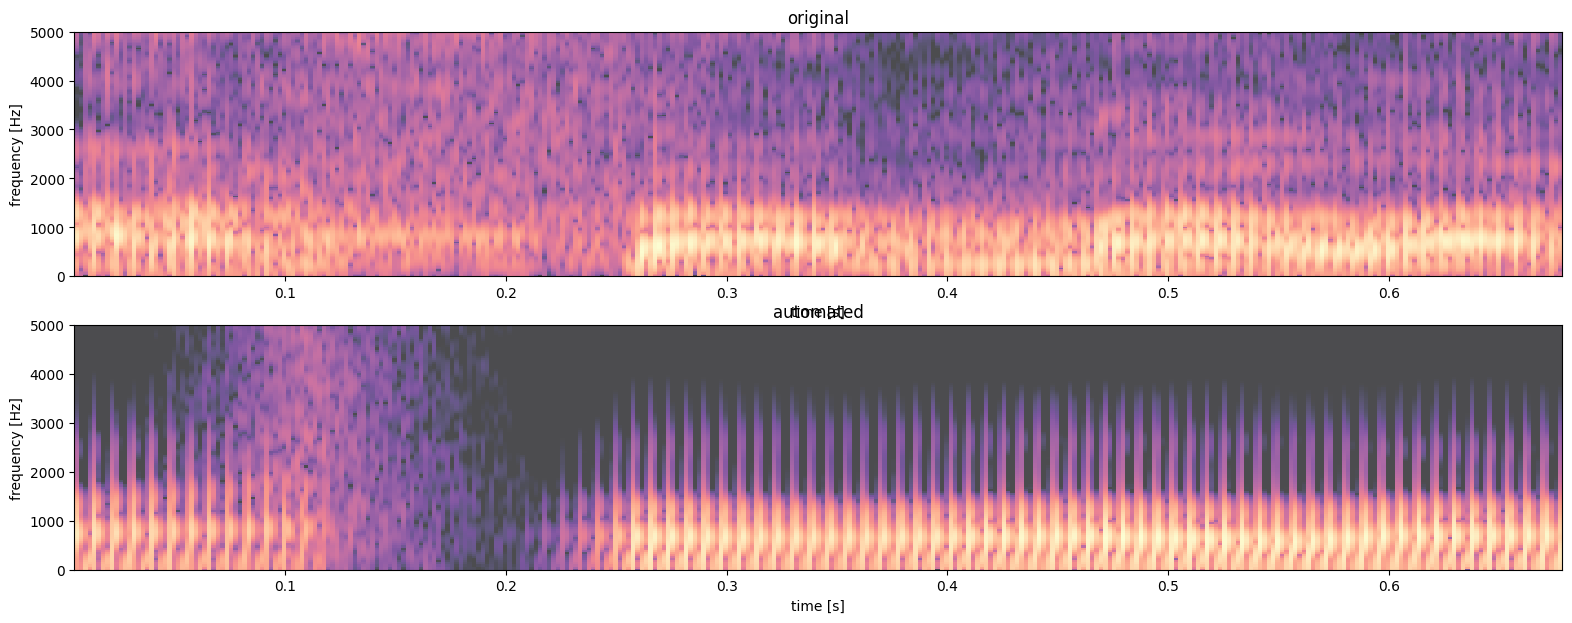
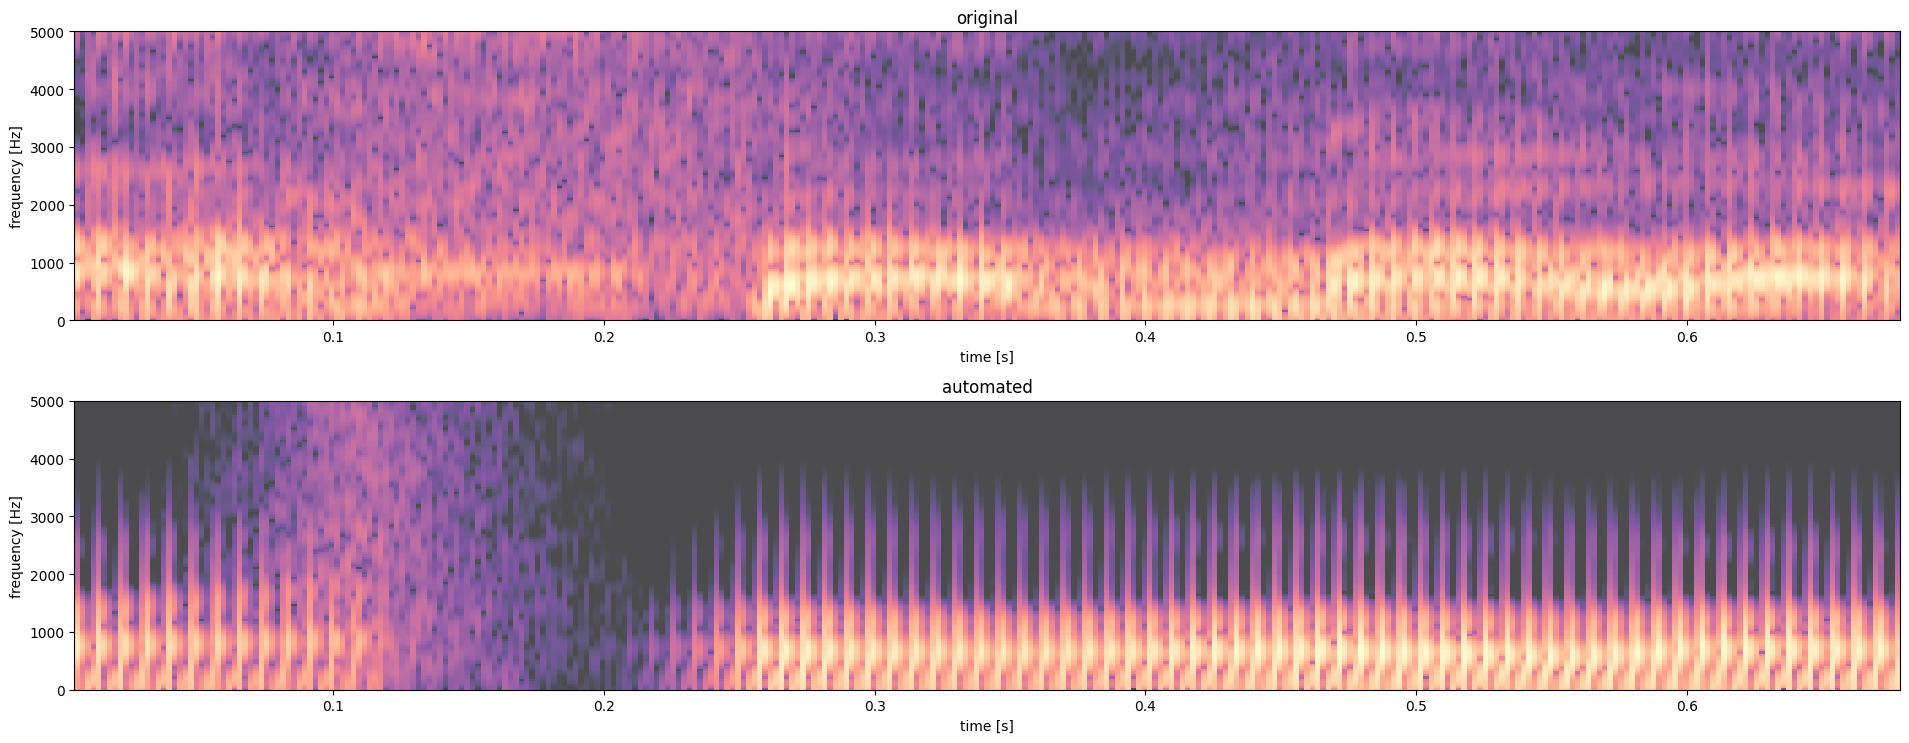
fixed axis label and title overlap

diff --git a/main.py b/main.py
@@ -22,6 +22,7 @@ def generate_waveforms(orig: str, auto: str):
     sounds = [pm.Sound(orig),
               pm.Sound(auto)]
     plt.figure(figsize=(19.2, 10.8))
+
     for i, snd in enumerate(sounds):
         plt.subplot(3, 1, i+1)
         plt.plot(snd.xs(), snd.values.T)
@@ -32,6 +33,7 @@ def generate_waveforms(orig: str, auto: str):
             plt.title(auto.replace(".wav", ""))
         plt.xlabel("time [s]")
         plt.ylabel("amplitude")
+    plt.tight_layout()
     plt.savefig("waveforms.png", bbox_inches='tight')
     return True
 def generate_spectrograms(orig: str, auto: str, d_r = 70):
@@ -54,6 +56,7 @@ def generate_spectrograms(orig: str, auto: str, d_r = 70):
         plt.xlabel("time [s]")
         plt.ylabel("frequency [Hz]")
     # end for
+    plt.tight_layout()
     plt.savefig("spectrograms.png", bbox_inches='tight')
 
 
